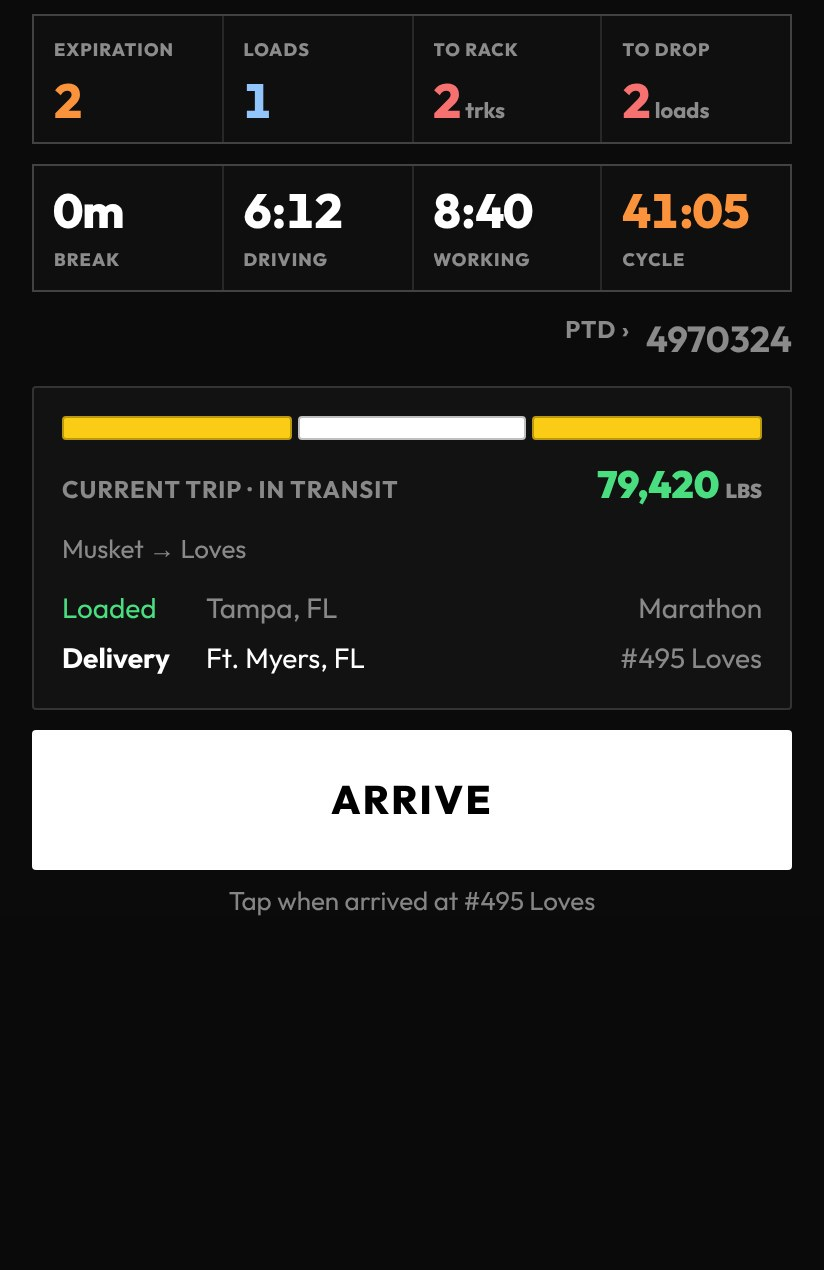
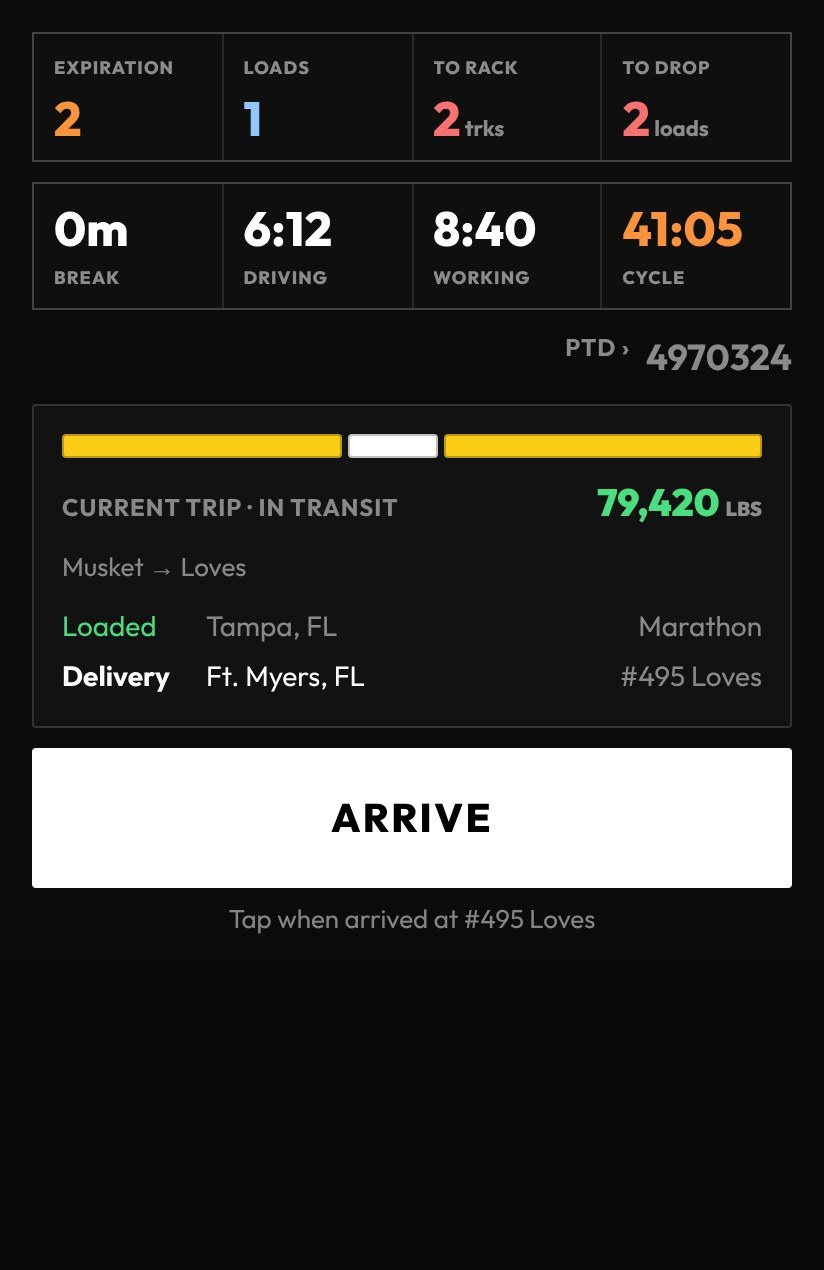
Realistic compartment sizes in sample screens (4,300 / 1,250 / 3,800, trailer 3151)
The guided tour, the dashboard image, the tank map and the Plan board sample
all used even compartments; now they use the real trailer's proportions.

Claude-Session: https://claude.ai/code/session_019oGuVGmEFsRozjSLbNz8JD

Changed region(s): [[0.0303, 0.0, 0.9709, 0.737]]

diff --git a/app/for-drivers/page.tsx b/app/for-drivers/page.tsx
@@ -268,7 +268,7 @@ export default function ForDriversPage() {
           </div>
           <div className="feature-visual">
             <PhoneScreen
-              src="/app-screens/dashboard.jpg?v=20261109b"
+              src="/app-screens/dashboard.jpg?v=20261110"
               alt="The Driver Dashboard: hours, current trip and the next-step button"
               width={300}
               maxHeight={440}
@@ -298,7 +298,7 @@ export default function ForDriversPage() {
           </div>
           <div className="feature-visual">
             <PhoneScreen
-              src="/app-screens/ptd.jpg?v=20261109b"
+              src="/app-screens/ptd.jpg?v=20261110"
               alt="A completed Product Transfer Document with barcode, compartments and deliveries"
               width={300}
               maxHeight={520}
@@ -329,13 +329,13 @@ export default function ForDriversPage() {
           </div>
           <div className="feature-visual" style={{ display: "flex", gap: 20, justifyContent: "center", flexWrap: "wrap" }}>
             <PhoneScreen
-              src="/app-screens/delivery-tanks.jpg?v=20261109"
+              src="/app-screens/delivery-tanks.jpg?v=20261110"
               alt="The delivery screen: compartments linked to store tanks by product, with gallons per tank"
               width={260}
               maxHeight={540}
             />
             <PhoneScreen
-              src="/app-screens/delivery-details.jpg?v=20261109"
+              src="/app-screens/delivery-details.jpg?v=20261110"
               alt="Delivery details: optional tank readings, bio blend, additives, issues and ending miles"
               width={260}
               maxHeight={540}
@@ -360,17 +360,17 @@ export default function ForDriversPage() {
           </p>
           <div style={{ display: "flex", gap: 24, justifyContent: "center", flexWrap: "wrap", alignItems: "flex-start", marginTop: 28 }}>
             <PhoneScreen
-              src="/app-screens/delivery-consignee.jpg?v=20261109"
+              src="/app-screens/delivery-consignee.jpg?v=20261110"
               alt="Consignee step: the store's signature recorded with a green check"
               width={250}
             />
             <PhoneScreen
-              src="/app-screens/delivery-driver.jpg?v=20261109"
+              src="/app-screens/delivery-driver.jpg?v=20261110"
               alt="Driver step: the driver signs once on the signature pad"
               width={250}
             />
             <PhoneScreen
-              src="/app-screens/delivery-times.jpg?v=20261109"
+              src="/app-screens/delivery-times.jpg?v=20261110"
               alt="Times step: arrived, began and finished times with an on schedule check"
               width={250}
             />

diff --git a/app/page.tsx b/app/page.tsx
@@ -169,7 +169,7 @@ export default function Home() {
         </div>
         <div className="hero-visual">
           <PhoneScreen
-            src="/app-screens/dashboard.jpg?v=20261109b"
+            src="/app-screens/dashboard.jpg?v=20261110"
             alt="ProTankr Driver Dashboard: hours, current trip, compartments and the next-step button"
             width={340}
             maxHeight={440}
@@ -226,7 +226,7 @@ export default function Home() {
           <div className="screens-row">
             <figure className="screen-fig">
               <PhoneScreen
-                src="/app-screens/plan.jpg?v=20261109b"
+                src="/app-screens/plan.jpg?v=20261110"
                 alt="The load plan: three compartments with products, gallons and a target weight"
                 width={300}
                 maxHeight={470}
@@ -238,7 +238,7 @@ export default function Home() {
             </figure>
             <figure className="screen-fig">
               <PhoneScreen
-                src="/app-screens/trips.jpg?v=20261109b"
+                src="/app-screens/trips.jpg?v=20261110"
                 alt="Trips and PTDs: completed orders with terminal, store, truck and compartment strip"
                 width={300}
                 maxHeight={470}
@@ -250,7 +250,7 @@ export default function Home() {
             </figure>
             <figure className="screen-fig">
               <PhoneScreen
-                src="/app-screens/ptd.jpg?v=20261109b"
+                src="/app-screens/ptd.jpg?v=20261110"
                 alt="A completed Product Transfer Document with barcode, compartments, BOL numbers and deliveries"
                 width={300}
                 maxHeight={470}
@@ -358,13 +358,13 @@ export default function Home() {
           </div>
           <div className="product-visual reports-visual">
             <PhoneScreen
-              src="/app-screens/reports.jpg?v=20261109b"
+              src="/app-screens/reports.jpg?v=20261110"
               alt="The Reports hub: loads, DROP report, payload utilization, terminal cards and equipment history"
               width={270}
               maxHeight={540}
             />
             <PhoneScreen
-              src="/app-screens/drop-report.jpg?v=20261109b"
+              src="/app-screens/drop-report.jpg?v=20261110"
               alt="A DROP report: days worked, hours, loads, utilization score, gallons and miles"
               width={270}
               maxHeight={540}

diff --git a/app/for-fleets/page.tsx b/app/for-fleets/page.tsx
@@ -350,13 +350,13 @@ export default function ForFleetsPage() {
           </div>
           <div className="feature-visual" style={{ display: "flex", gap: 20, justifyContent: "center", flexWrap: "wrap" }}>
             <PhoneScreen
-              src="/app-screens/ptd.jpg?v=20261109b"
+              src="/app-screens/ptd.jpg?v=20261110"
               alt="A completed Product Transfer Document"
               width={250}
               maxHeight={500}
             />
             <PhoneScreen
-              src="/app-screens/drop-report.jpg?v=20261109b"
+              src="/app-screens/drop-report.jpg?v=20261110"
               alt="A DROP report summarizing hours, loads, gallons and miles"
               width={250}
               maxHeight={500}
@@ -388,13 +388,13 @@ export default function ForFleetsPage() {
           </div>
           <div className="feature-visual" style={{ display: "flex", gap: 20, justifyContent: "center", flexWrap: "wrap" }}>
             <PhoneScreen
-              src="/app-screens/fleet-dispatch-live.jpg?v=20261109"
+              src="/app-screens/fleet-dispatch-live.jpg?v=20261110"
               alt="The Dispatch Dashboard in Live mode: friction, en route, on site and delayed counts, tools and loads in progress"
               width={260}
               maxHeight={600}
             />
             <PhoneScreen
-              src="/app-screens/fleet-track.jpg?v=20261109"
+              src="/app-screens/fleet-track.jpg?v=20261110"
               alt="Track: every truck and trailer combination with driver and status"
               width={260}
               maxHeight={440}
@@ -425,7 +425,7 @@ export default function ForFleetsPage() {
           </div>
           <div className="feature-visual">
             <PhoneScreen
-              src="/app-screens/fleet-plan-board.jpg?v=20261109"
+              src="/app-screens/fleet-plan-board.jpg?v=20261110"
               alt="The Plan board: a driver's day as three trip cards, one complete, one in transit and one dispatched"
               width={300}
               maxHeight={620}

diff --git a/app/planner/components/tour/tourDemo.tsx b/app/planner/components/tour/tourDemo.tsx
@@ -15,7 +15,7 @@ const card: React.CSSProperties = { ...LOOK.primary, padding: 14 };
 const label: React.CSSProperties = { fontSize: 12, fontWeight: 700, color: muted, textTransform: "uppercase", letterSpacing: 0.5 };
 
 const SLOTS: StripSlot[] = [
-  { comp: 1, size: 3000, color: "#facc15" }, { comp: 2, size: 3000, color: "#ffffff" }, { comp: 3, size: 3000, color: "#facc15" },
+  { comp: 1, size: 4300, color: "#facc15" }, { comp: 2, size: 1250, color: "#ffffff" }, { comp: 3, size: 3800, color: "#facc15" },
 ];
 
 type Hot = "expiration" | "loads" | "rack" | "drop" | null;
